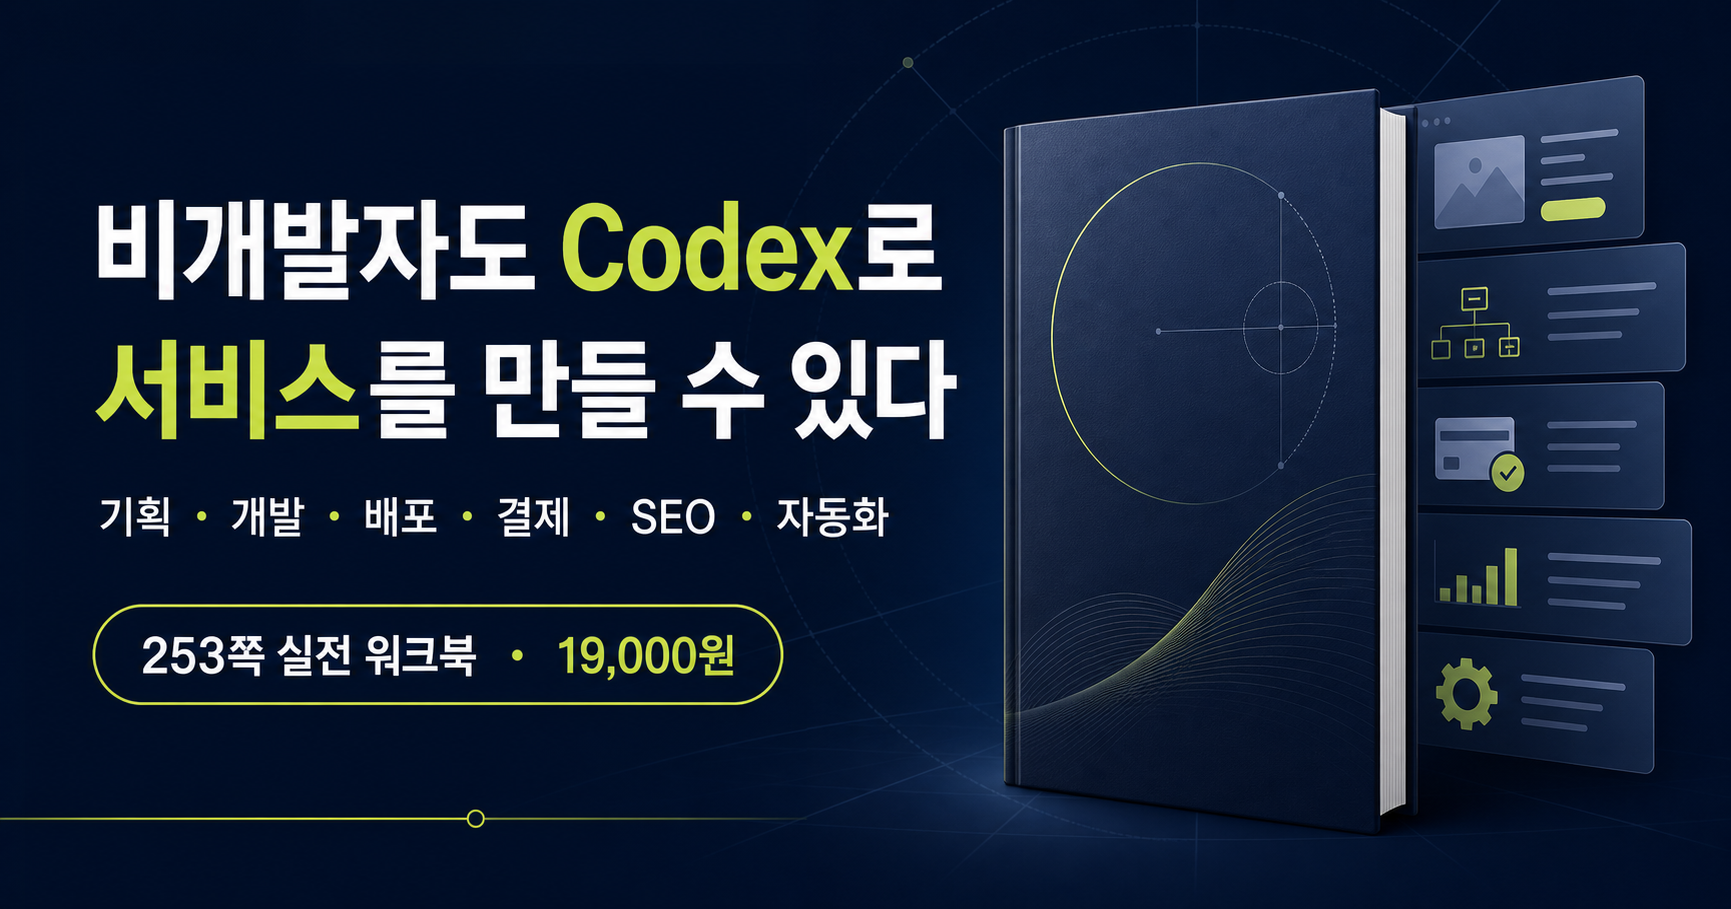
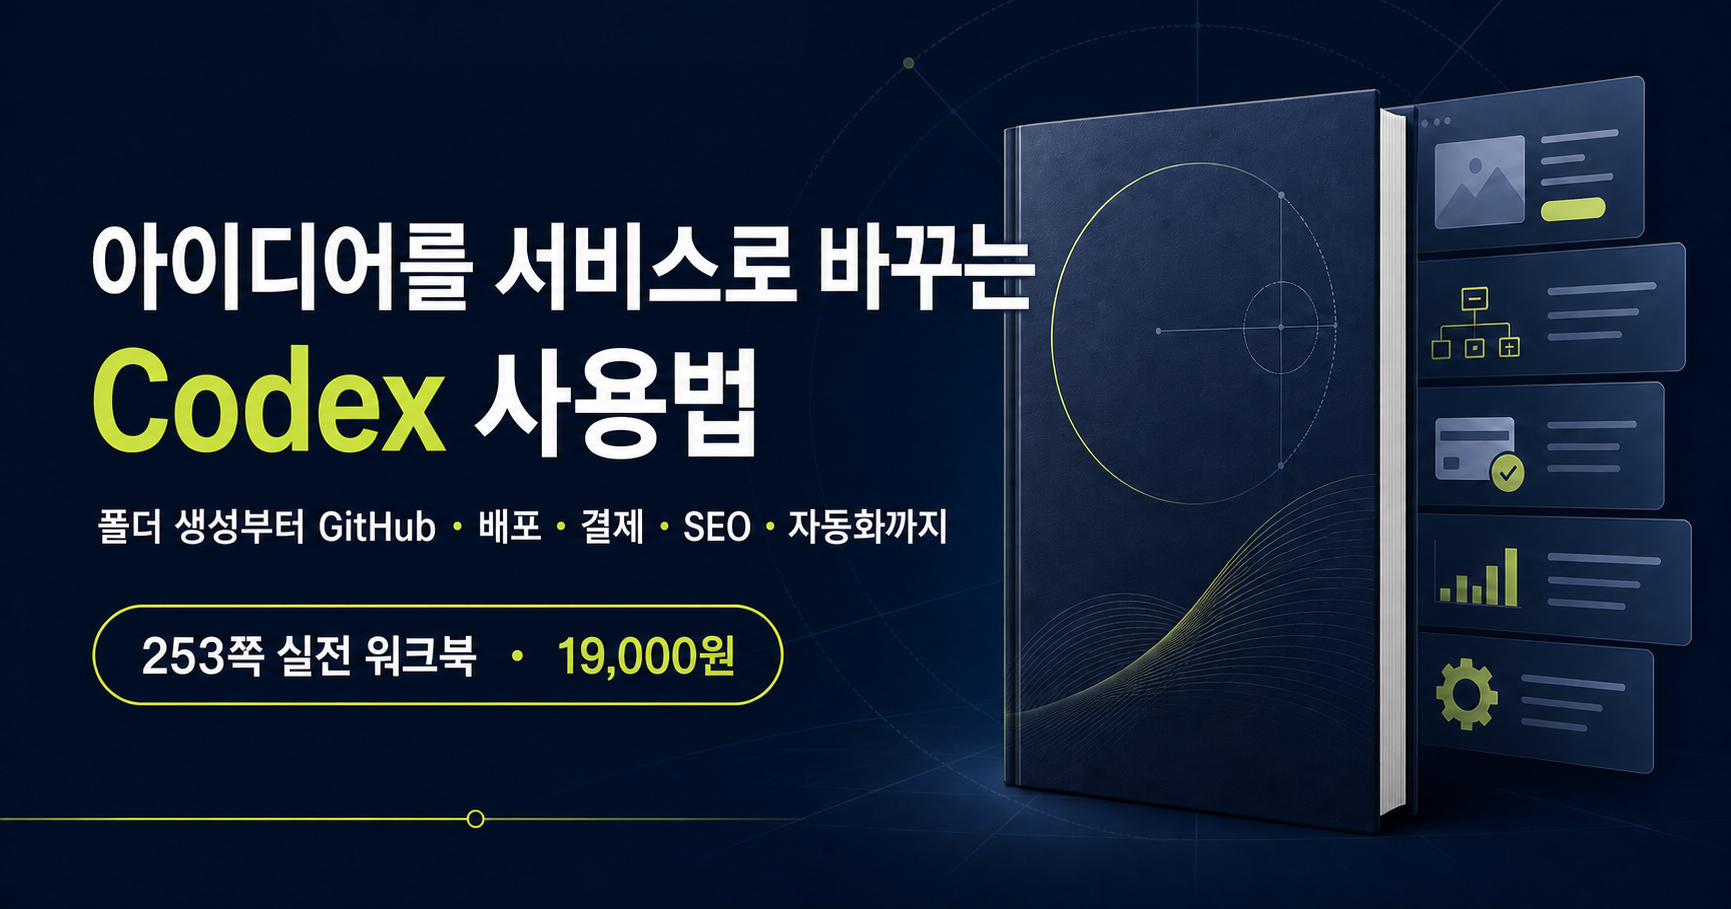
Rename ebook to Codex usage guide

diff --git a/app/layout.tsx b/app/layout.tsx
@@ -9,7 +9,7 @@ const siteUrl = process.env.NEXT_PUBLIC_SITE_URL || "http://localhost:3000";
 export const metadata: Metadata = {
   metadataBase: new URL(siteUrl),
   title: {
-    default: "비개발자도 Codex로 서비스를 만들 수 있다 | 필립",
+    default: "아이디어를 서비스로 바꾸는 Codex 사용법 | 필립",
     template: "%s | Codex Solo Builder",
   },
   description: "IT 초보자가 Codex로 폴더 생성부터 GitHub, Vercel 배포, Supabase, 결제, SEO와 Threads 자동화까지 완성하는 253쪽 실전 전자책.",
@@ -22,15 +22,15 @@ export const metadata: Metadata = {
   openGraph: {
     type: "website",
     locale: "ko_KR",
-    title: "비개발자도 Codex로 서비스를 만들 수 있다",
+    title: "아이디어를 서비스로 바꾸는 Codex 사용법",
     description: "개발자 없이 아이디어에서 배포·결제·홍보·운영까지. 253쪽 Codex 실전 워크북.",
     siteName: "Codex Solo Builder",
     url: "/",
-    images: [{ url: "/og.png", width: 1731, height: 909, alt: "비개발자도 Codex로 서비스를 만들 수 있다" }],
+    images: [{ url: "/og.png", width: 1731, height: 909, alt: "아이디어를 서비스로 바꾸는 Codex 사용법" }],
   },
   twitter: {
     card: "summary_large_image",
-    title: "비개발자도 Codex로 서비스를 만들 수 있다",
+    title: "아이디어를 서비스로 바꾸는 Codex 사용법",
     description: "49개 장을 따라 서비스의 처음부터 끝까지 완성하는 초보자용 Codex 실전서.",
     images: ["/og.png"],
   },

diff --git a/app/page.tsx b/app/page.tsx
@@ -36,7 +36,7 @@ const faqs = [
 const schema = {
   "@context": "https://schema.org",
   "@type": "Product",
-  name: "비개발자도 Codex로 서비스를 만들 수 있다",
+  name: "아이디어를 서비스로 바꾸는 Codex 사용법",
   description: "IT 초보자가 Codex로 기획, 개발, 배포, 결제, SEO와 자동화까지 완성하는 253쪽 실전 전자책",
   brand: { "@type": "Brand", name: "필립" },
   offers: {
@@ -98,7 +98,7 @@ export default function Home() {
             <div className="orbit orbit-two" />
             <div className="book-shadow" />
             <div className="book-cover">
-              <Image src="/ebook-cover.png" alt="비개발자도 Codex로 서비스를 만들 수 있다 전자책 표지" width={991} height={1406} priority />
+              <Image src="/ebook-cover.png" alt="아이디어를 서비스로 바꾸는 Codex 사용법 전자책 표지" width={991} height={1406} priority />
             </div>
             <div className="floating-note note-a"><b>Goal</b><span>무엇을 만들까?</span></div>
             <div className="floating-note note-b"><b>Done</b><span>어떻게 확인할까?</span></div>